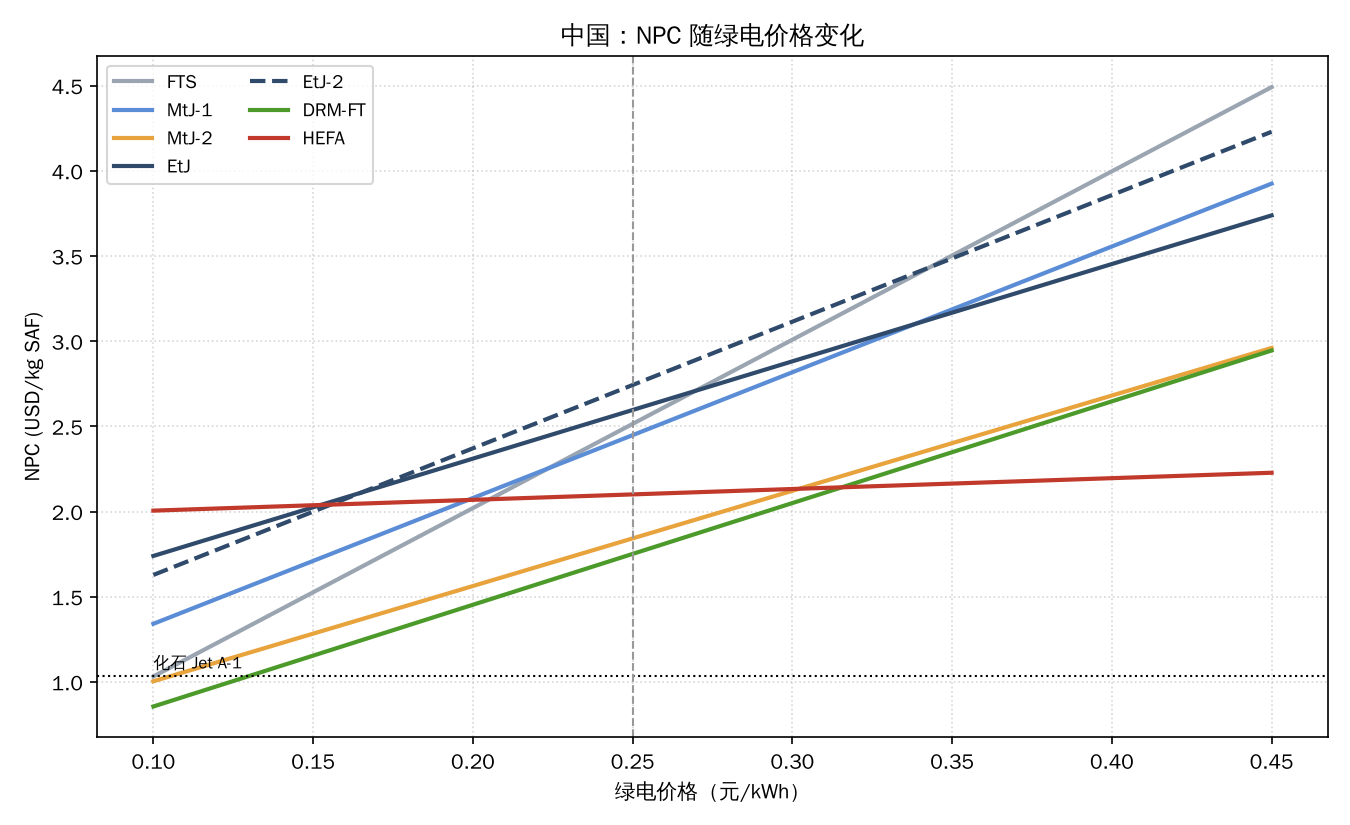
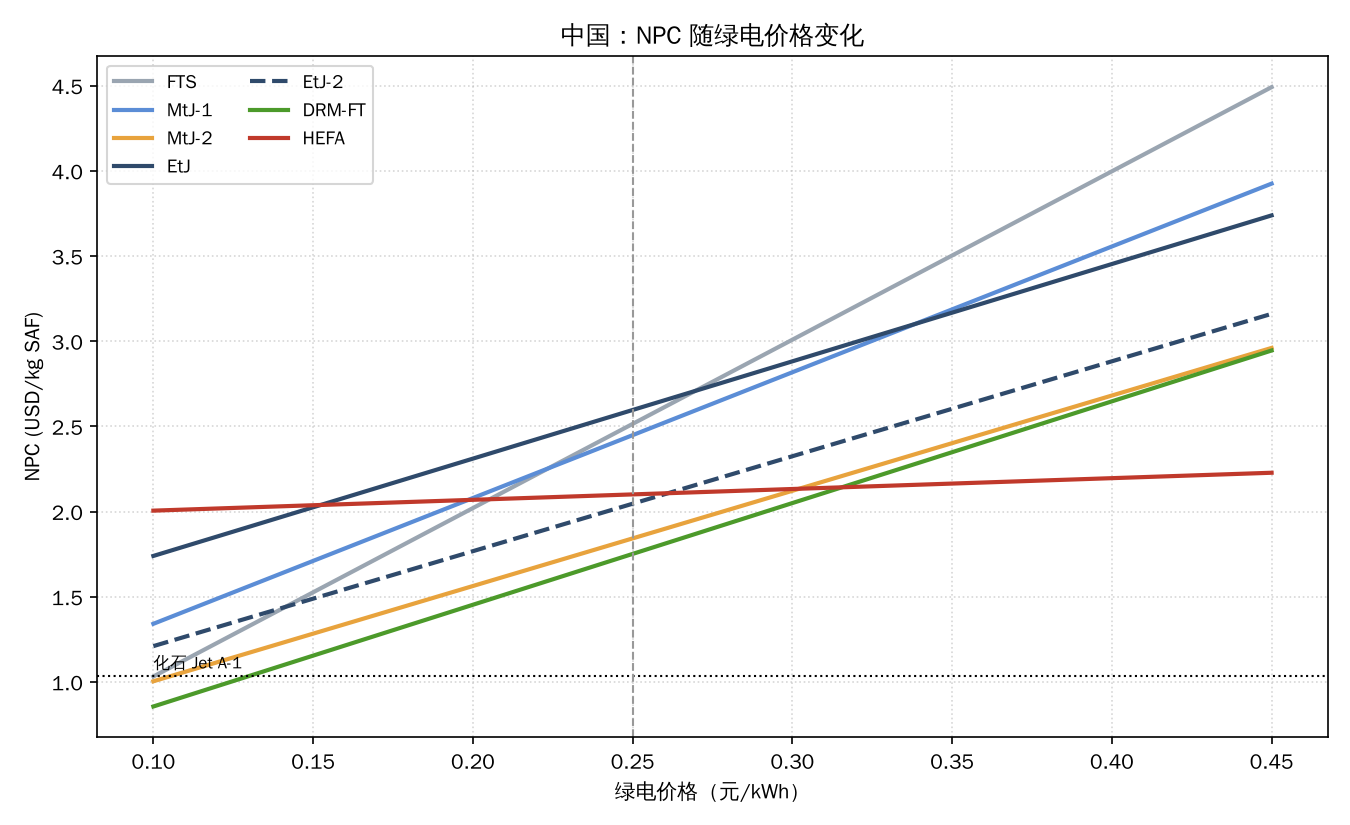
Align EtJ-2 carbon and H2 losses with MtJ-2 synthesis loop
Claude-Session: https://claude.ai/code/session_019ZxddMFjrdNaj3CF5ySFqn

diff --git a/saf_tea/extensions.py b/saf_tea/extensions.py
@@ -59,10 +59,13 @@ def china_region(a: dict = CN_ASSUMPTIONS) -> m.Region:
 
 # ============================================================== EtJ-2
 ETJ2_ASSUMPTIONS = {
-    "carbon_yield": 0.80,        # share of converted CO2 carbon ending up in ethanol (rest -> CH4, purged)
+    # aligned with MtJ-2 (SI Table 9): methanol C / fresh CO2 C = 1514.5/1524.8 = 99.33 %,
+    # H2 to synthesis / stoichiometric H2 = 9231.46/9159.7 = 1.0078; no CH4 formation
+    "carbon_yield": 1.00,        # share of converted CO2 carbon ending up in ethanol (rest -> CH4, purged)
     "single_pass_conv": 0.20,    # CO2 single-pass conversion of the synthesis loop
     "mtj2_loop_conv": 0.50,      # assumed once-through conversion of the MtJ-2 3-stage loop (scaling ref.)
-    "purge_loss": 0.02,          # CO2/H2 lost with the loop purge
+    "purge_loss": 1 - 1514.5 / 1524.8,     # CO2 lost with the loop purge (as MtJ-2)
+    "h2_purge_loss": 1 - 9159.7 / 9231.46, # H2 lost with the loop purge (as MtJ-2)
     "p_syn_bar": 50.0,           # synthesis pressure
     "steam_recovery": 0.5,       # share of reaction heat exported as MP steam
     "capex_safety": 1.20,        # low-TRL contingency (same 20 % the paper puts on EtJ)
@@ -84,7 +87,7 @@ def etj2_balance(a: dict = ETJ2_ASSUMPTIONS) -> dict:
     c_conv = c_etoh / a["carbon_yield"]
     n_ch4 = c_conv - c_etoh
     co2 = c_conv * M_CO2 / (1 - a["purge_loss"])   # kg/h fresh CO2
-    h2_syn = (6 * n_etoh + 4 * n_ch4) * M_H2 / (1 - a["purge_loss"])
+    h2_syn = (6 * n_etoh + 4 * n_ch4) * M_H2 / (1 - a.get("h2_purge_loss", a["purge_loss"]))
     h2 = h2_syn + EtJ_DOWNSTREAM_H2
     water_made = (3 * n_etoh + 2 * n_ch4) * M_H2O  # kg/h, goes with crude ethanol to dehydration
     heat_mw = (n_etoh * DH_ETOH + n_ch4 * DH_CH4) / 3600 / 1000

diff --git a/saf_tea/run_all.py b/saf_tea/run_all.py
@@ -111,7 +111,7 @@ def cn_sens():
 
 def etj2_sens(region="CN"):
     params = [
-        ("carbon_yield", "乙醇碳选择性 (0.65–0.95)", 0.65, 0.95),
+        ("carbon_yield", "乙醇碳选择性 (0.80–1.00)", 0.80, 1.00),
         ("single_pass_conv", "CO₂单程转化率 (0.10–0.35)", 0.10, 0.35),
         ("capex_safety", "低TRL投资裕量 (1.0–1.5)", 1.0, 1.5),
         ("steam_recovery", "反应热回收为蒸汽 (0–0.8)", 0.0, 0.8),

diff --git a/saf_tea/cn_routes.py b/saf_tea/cn_routes.py
@@ -172,7 +172,7 @@ SPECIFIC = {
              ("hefa", "saf_yield", "HEFA 航煤收率 0.45–0.55", 0.45, 0.55)],
     "DRM-FT": [("drm", "reformer_ec_usd", "重整炉设备 5–40 MUSD", 5e6, 40e6),
                ("drm", "ch4_to_co2", "CH₄:CO₂ 0.8–1.5", 0.8, 1.5)],
-    "EtJ-2": [("e2", "carbon_yield", "乙醇碳选择性 0.65–0.95", 0.65, 0.95)],
+    "EtJ-2": [("e2", "carbon_yield", "乙醇碳选择性 0.80–1.00", 0.80, 1.00)],
 }
 
 

diff --git a/saf_tea/README.md b/saf_tea/README.md
@@ -52,22 +52,22 @@
 
 **没有 Aspen 模拟**，所以是简化的物料能量衡算加投资放缩：
 
-- **碳选择性 0.80**：转化的 CO₂ 中 80% 的碳进入乙醇，其余生成 CH₄ 后吹扫掉。这一项多耗氢，是关键参数。
+- **碳选择性与 MtJ-2 对齐**：按 SI 表 9，MtJ-2 的甲醇碳 / 新鲜 CO₂ 碳 = 99.33%，进合成的 H₂ 比化学计量多 0.78%。EtJ-2 取相同的吹扫损失，不生成 CH₄（`carbon_yield = 1.0`）。敏感性分析中，碳选择性在 0.80–1.00 之间变动（0.80 表示 20% 的碳变成 CH₄ 后吹扫掉）。
 - **单程转化率 0.20**：用于计算循环量和压缩功。
 - **合成段投资**：以 MtJ-2 甲醇合成段为参照放缩（回路设备取 0.6 次方，进料压缩机取 0.8 次方），去掉甲醇精馏（粗乙醇水溶液直接去脱水），再加 20% 低 TRL 裕量。
-- **用水抵扣**：反应生成的水（54.7 t/h）直接抵扣脱水单元的配水，因此外购水更少。
+- **用水抵扣**：反应生成的水（41.0 t/h）直接抵扣脱水单元的配水，因此外购水更少。
 - **反应热**（54 MW）按 50% 回收为中压蒸汽，计为收入。
 
-物料衡算结果：H₂ 12,751 kg/h（EtJ 是 9,958，FTS 是 12,051），CO₂ 85.2 t/h，工艺段 FCI 约 228 MUSD（欧洲；EtJ 是 701）。
+物料衡算结果：H₂ 9,515 kg/h（MtJ-2 是 9,449，EtJ 是 9,958），CO₂ 67.2 t/h，工艺段 FCI 约 201 MUSD（欧洲；EtJ 是 701，MtJ-2 是 175）。
 
 ## 4. 结果（USD/kg SAF）
 
 | 地区 | FTS | MtJ-1 | MtJ-2 | EtJ | EtJ-2 |
 |---|---|---|---|---|---|
-| 欧洲 | 6.44 | 5.80 | **4.52** | 5.82 | 6.39 |
-| 美国 | 3.49 | 3.45 | **2.68** | 3.95 | 3.93 |
-| 中东 | 8.26 | 6.98 | **5.36** | 6.74 | 7.56 |
-| 中国 | 2.51 | 2.45 | **1.84** | 2.60 | 2.74 |
+| 欧洲 | 6.44 | 5.80 | **4.52** | 5.82 | 4.84 |
+| 美国 | 3.49 | 3.45 | **2.68** | 3.95 | 3.01 |
+| 中东 | 8.26 | 6.98 | **5.36** | 6.74 | 5.77 |
+| 中国 | 2.51 | 2.45 | **1.84** | 2.60 | 2.05 |
 
 化石 Jet A-1 约 1.04 USD/kg。
 
@@ -88,7 +88,7 @@
 
 2. **路线排名在中国不变**：MtJ-2 最优，FTS 和 MtJ-1 接近。EtJ 的发酵罐投资折算到中国后降低了，但仍然偏高。
 
-3. **EtJ-2 的竞争力取决于乙醇碳选择性**：它省掉了发酵罐，投资降到 EtJ 的 1/3，但在碳选择性 0.80 时比 EtJ 多耗 28% 的氢，所以基准情况下略贵。要追平 EtJ，碳选择性需要达到：中国 0.84、美国 0.80、欧洲 0.87、中东 0.88。碳选择性 0.95 时，中国 EtJ-2 为 2.21，低于 EtJ 和 MtJ-1，但仍高于 MtJ-2。单程转化率、合成压力和投资裕量对结果影响都很小（不超过 ±0.06）。
+3. **EtJ-2（碳选择性与 MtJ-2 对齐后）**：四个地区都是第二便宜的电制路线，只比 MtJ-2 贵 0.21–0.41 USD/kg，比发酵法 EtJ 便宜 0.55–0.98。省掉发酵罐后，投资降到 EtJ 的约 1/4。用氢量（9,515 kg/h）和 MtJ-2（9,449）基本相同，因为两者每个碳都需要 3 个 H₂。与 MtJ-2 剩下的差距（中国 0.21）主要来自三项：蒸汽副产收入更少（MtJ-2 的甲醇制丙烯放热可多卖蒸汽）、20% 的低 TRL 投资裕量、两段齐聚使下游设备更多。如果碳选择性降到 0.80，中国 EtJ-2 升到 2.71。要追平 EtJ，碳选择性需要达到：中国 0.83、美国 0.79、欧洲 0.86、中东 0.88。
 
 4. **中国 MtJ-2 的敏感性**（`results/tornado_china_mtj2.png`）：
    - 绿电价格 0.15–0.40 元/kWh → NPC 1.28–2.68，影响远大于其他参数；
@@ -132,7 +132,7 @@
 
 | FTS | MtJ-1 | MtJ-2 | EtJ | EtJ-2 | DRM-FT | HEFA |
 |---|---|---|---|---|---|---|
-| 2.51 | 2.45 | 1.84 | 2.60 | 2.74 | **1.75** | 2.10 |
+| 2.51 | 2.45 | 1.84 | 2.60 | 2.05 | **1.75** | 2.10 |
 
 ### 敏感性分析
 
